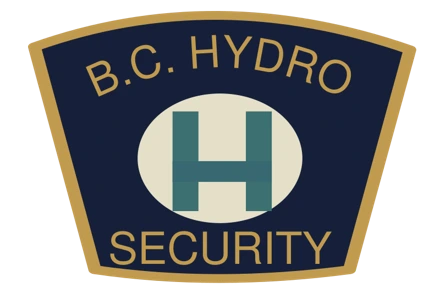
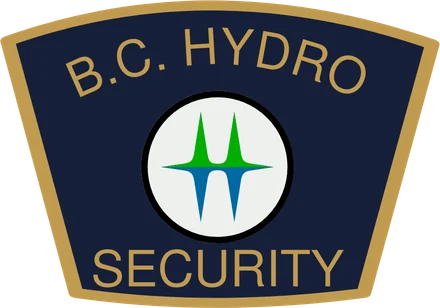
B.C. Hydro Security shield: BC Hydro's own symbol in the centre
S56-O21 drew a plain block H on a cream oval. The photograph shows BC
Hydro's ringed two-star H on a light disc, so supplied/bc-hydro-security
composes the atlas shield and captions with the symbol as PofBC draws it
(Logos → BC Hydro → Full authority name, via its symbolMarkup), and
orgs.json replaces the atlas drawing with it.

Claude-Session: https://claude.ai/code/session_01T5AbVH6CZUB97WoR7FV4AA

diff --git a/library/supplied/bc-hydro-security/README.md b/library/supplied/bc-hydro-security/README.md
@@ -1,0 +1,19 @@
+# B.C. Hydro Security shield
+
+S56-O21, the B.C. Hydro Security shield, with BC Hydro's own symbol in the centre: the ring round the
+two-star H, green over blue, as PofBC draws it (Logos → BC Hydro → Full authority name). The atlas drew a
+plain block H on a cream oval there; the photograph shows the symbol on a light disc.
+
+```bash
+node library/supplied/bc-hydro-security/compose.mjs ../PofBC   # writes composed/S56-O21.svg
+npm run library:import
+```
+
+`compose.mjs` takes the atlas's drawing from the snapshot and keeps its shield, border and both captions. It
+replaces the three centre-art groups with a disc the height of the old oval, and the symbol from PofBC's
+`symbolMarkup` (`src/hydro/renderHydroSvg.js`) with the authority signature's default ring weight, star
+scale and screen colours, its ring on the disc's edge. `preview-S56-O21.webp` is the result rendered in
+Chromium, cropped and scaled to 440 px.
+
+The shield and lettering are a reconstruction from a low-resolution collector board, and the symbol's
+size on the patch is read from that photograph, so both are approximate.

diff --git a/library/README.md b/library/README.md
@@ -107,6 +107,7 @@ preview, quality line and limitations:
 | S31-O01 Recreation and Conservation / Parks | `supplied/bc-parks-recreation-conservation/`: a supplied vector package, used whole |
 | S30-O04, S27-O04 scenic arch, Parks and Parks · Ranger | `supplied/bc-parks-scenic-arch/`: the atlas arch and lettering with a supplied landscape in the window (`compose.mjs`) |
 | S30-O01, S30-O02 BC Parks flag, rounded square and semicircle | `supplied/bc-parks-flag-badge/`: PofBC's flag badge, whole for the square and inside the atlas's semicircle (`compose.mjs`) |
+| S56-O21 B.C. Hydro Security shield | `supplied/bc-hydro-security/`: the atlas shield with PofBC's BC Hydro symbol in place of its plain H (`compose.mjs`) |
 
 A composed drawing is rebuilt by running its `compose.mjs`, then re-importing. Each replaced patch
 records the supplied file and the atlas drawing's SHA-256 (`replaced`), and the verifier checks the
